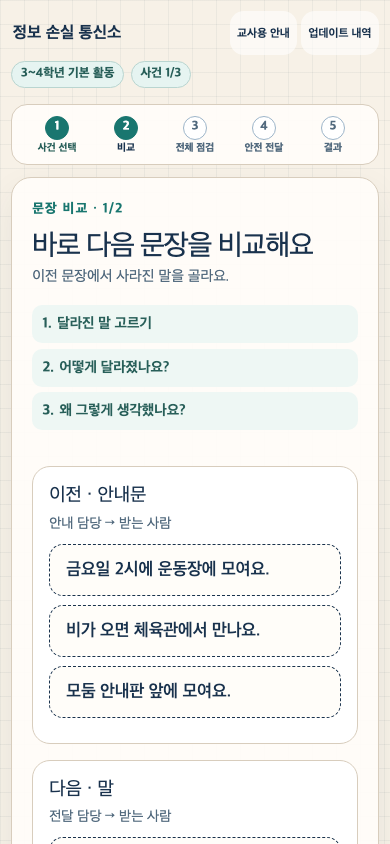
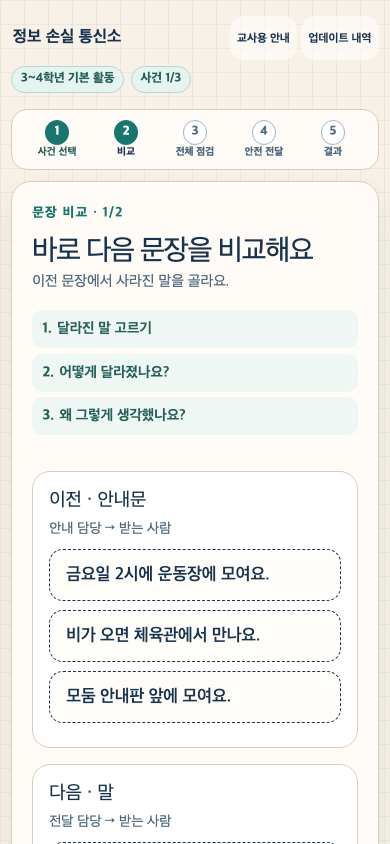
docs: refresh final v0.3.0 mobile evidence

diff --git a/docs/test-log.md b/docs/test-log.md
@@ -4,12 +4,12 @@
 
 - RED: 기존 전체 Chromium E2E를 실행해 이전 오답 피드백 문구 기대와 네이티브 체크박스의 18px 크기 검사에서 실패를 확인했습니다. 소스 점검에서 사건 5의 이전 제목 selector도 현재 학생용 제목으로 갱신했습니다.
 - GREEN: 새 피드백 문구와 `가상 학교 방송 이어 전하기` selector로 맞추고, 실제 44px 터치 영역인 레이블을 검사하도록 갱신했습니다. 최종 `npm run test:e2e -- --reporter=line`: Chromium 13개 통과(9.2초). 사건 1, 결과 화면 스크롤 복구, 쉬운 표현 금지 검사, 사건 4·5, 선택 복구, 뒤로가기, axe 심각도, reduced-motion, 360px·390px 가로 넘침, 200% 확대, 키보드, 저장소·쿠키 없음, 동일 출처 요청을 확인했습니다.
-- `npm test`: build와 Node 테스트 29개 통과.
+- `npm test`: build와 Node 테스트 30개 통과.
 - `npm run typecheck`: 통과.
 - `npm run lint`: 통과.
 - `npm run build`: 통과.
-- 390×844 production Chromium 최종 캡처를 `docs/screenshots/v0.3.0/compare-mobile.png`, `docs/screenshots/v0.3.0/result-mobile.png`에 저장했습니다. 비교·결과 화면의 헤더, 단계 표시, 주요 카드가 정상이고 결과 상단 잘림이 사라진 것을 직접 확인했습니다.
-- RED: 첫 결과 캡처의 스크롤 잔존을 재현하는 E2E와 학생 화면 금지 표현 검사를 먼저 추가했습니다. GREEN: `view` 또는 `transition`이 바뀌면 화면 맨 위로 되돌리도록 보완했습니다. 최종 결과 지표는 viewport `[390, 844]`, `scrollWidth` 390, 결과 높이 992, scroll `[0, 0]`입니다.
+- 390×844 production 최종 캡처를 `docs/screenshots/v0.3.0/compare-mobile.png`, `docs/screenshots/v0.3.0/result-mobile.png`에 새로 저장했습니다. 결과 화면의 상단 16px 이상 안전 여백 안에 wordmark·관리 버튼·활동/사건 상태·5단계 진행·결과 제목이 모두 보입니다.
+- RED: 첫 결과 캡처의 스크롤 잔존을 재현하는 E2E와 학생 화면 금지 표현 검사를 먼저 추가했습니다. GREEN: `view` 또는 `transition`이 바뀌면 화면 맨 위로 되돌리도록 보완했습니다. 최종 결과 지표는 viewport `[390, 844]`, `scrollWidth` 390, 결과 높이 996, scroll `[0, 0]`입니다.
 
 ## 2026-07-17
 

diff --git a/docs/2026-07-18-elementary-student-usability-report.md b/docs/2026-07-18-elementary-student-usability-report.md
@@ -16,7 +16,7 @@
 
 | 확인 | 결과 |
 | --- | --- |
-| `npm test` | 29개 통과 |
+| `npm test` | 30개 통과 |
 | `npm run typecheck` | 통과 |
 | `npm run lint` | 통과 |
 | `npm run build` | 통과 |
@@ -24,9 +24,9 @@
 
 ## 390×844 화면 캡처 상태
 
-최종 production 화면을 390×844로 직접 캡처해 [compare-mobile.png](screenshots/v0.3.0/compare-mobile.png)와 [result-mobile.png](screenshots/v0.3.0/result-mobile.png)에 저장했습니다. 두 화면에서 헤더·단계 표시·주요 카드가 정상으로 보이고, 결과 상단 잘림이 사라졌습니다.
+안전 여백 보완 뒤 최종 production 화면을 390×844로 다시 캡처해 [compare-mobile.png](screenshots/v0.3.0/compare-mobile.png)와 [result-mobile.png](screenshots/v0.3.0/result-mobile.png)에 저장했습니다. 결과 화면 상단의 16px 이상 여백 안에 wordmark·관리 버튼·활동/사건 상태·5단계 진행·결과 제목이 모두 보입니다.
 
-최종 결과 지표는 viewport `[390, 844]`, `scrollWidth` 390, 결과 높이 992, scroll `[0, 0]`입니다. 따라서 결과 화면은 이전 전달문 화면의 아래 위치를 이어받지 않고 맨 위에서 시작합니다.
+최종 결과 지표는 viewport `[390, 844]`, `scrollWidth` 390, 결과 높이 996, scroll `[0, 0]`입니다. 따라서 결과 화면은 이전 전달문 화면의 아래 위치를 이어받지 않고 맨 위에서 시작합니다.
 
 ## 교실에서 남은 확인 항목
 
